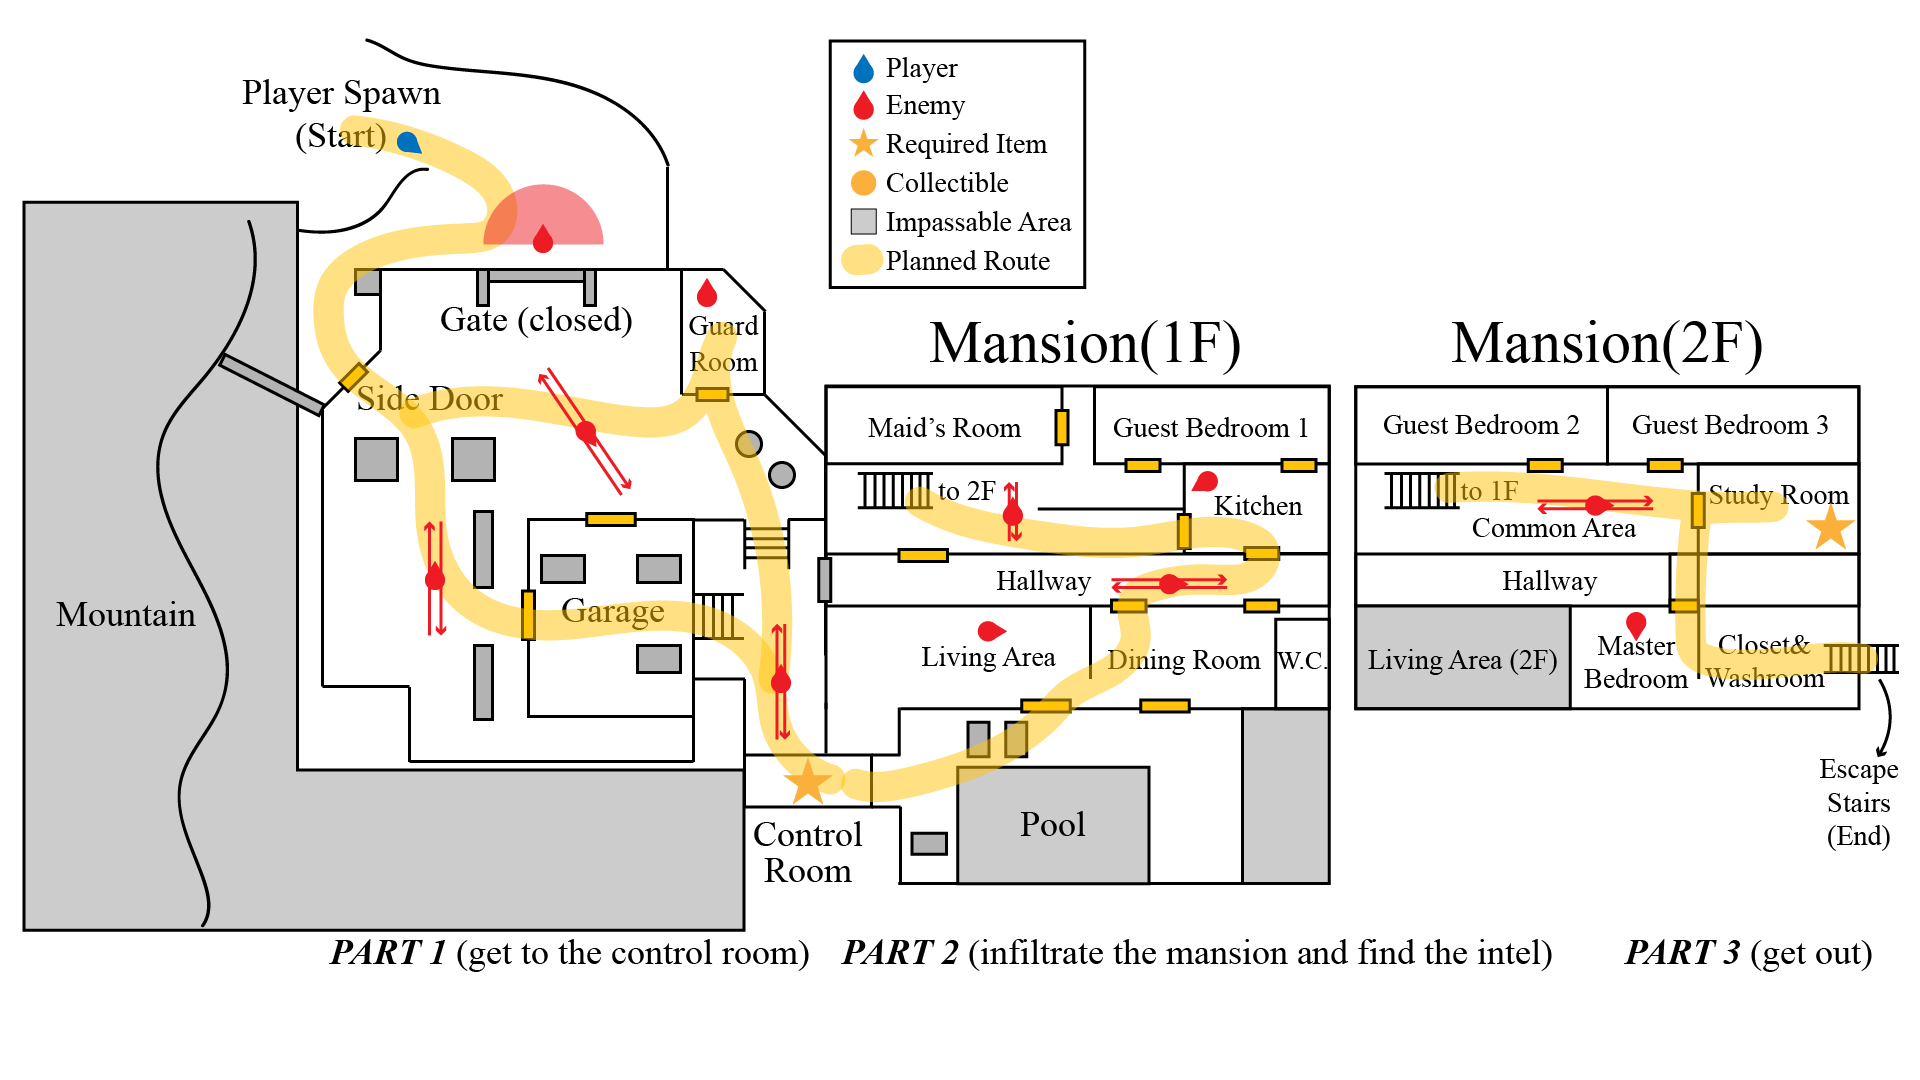
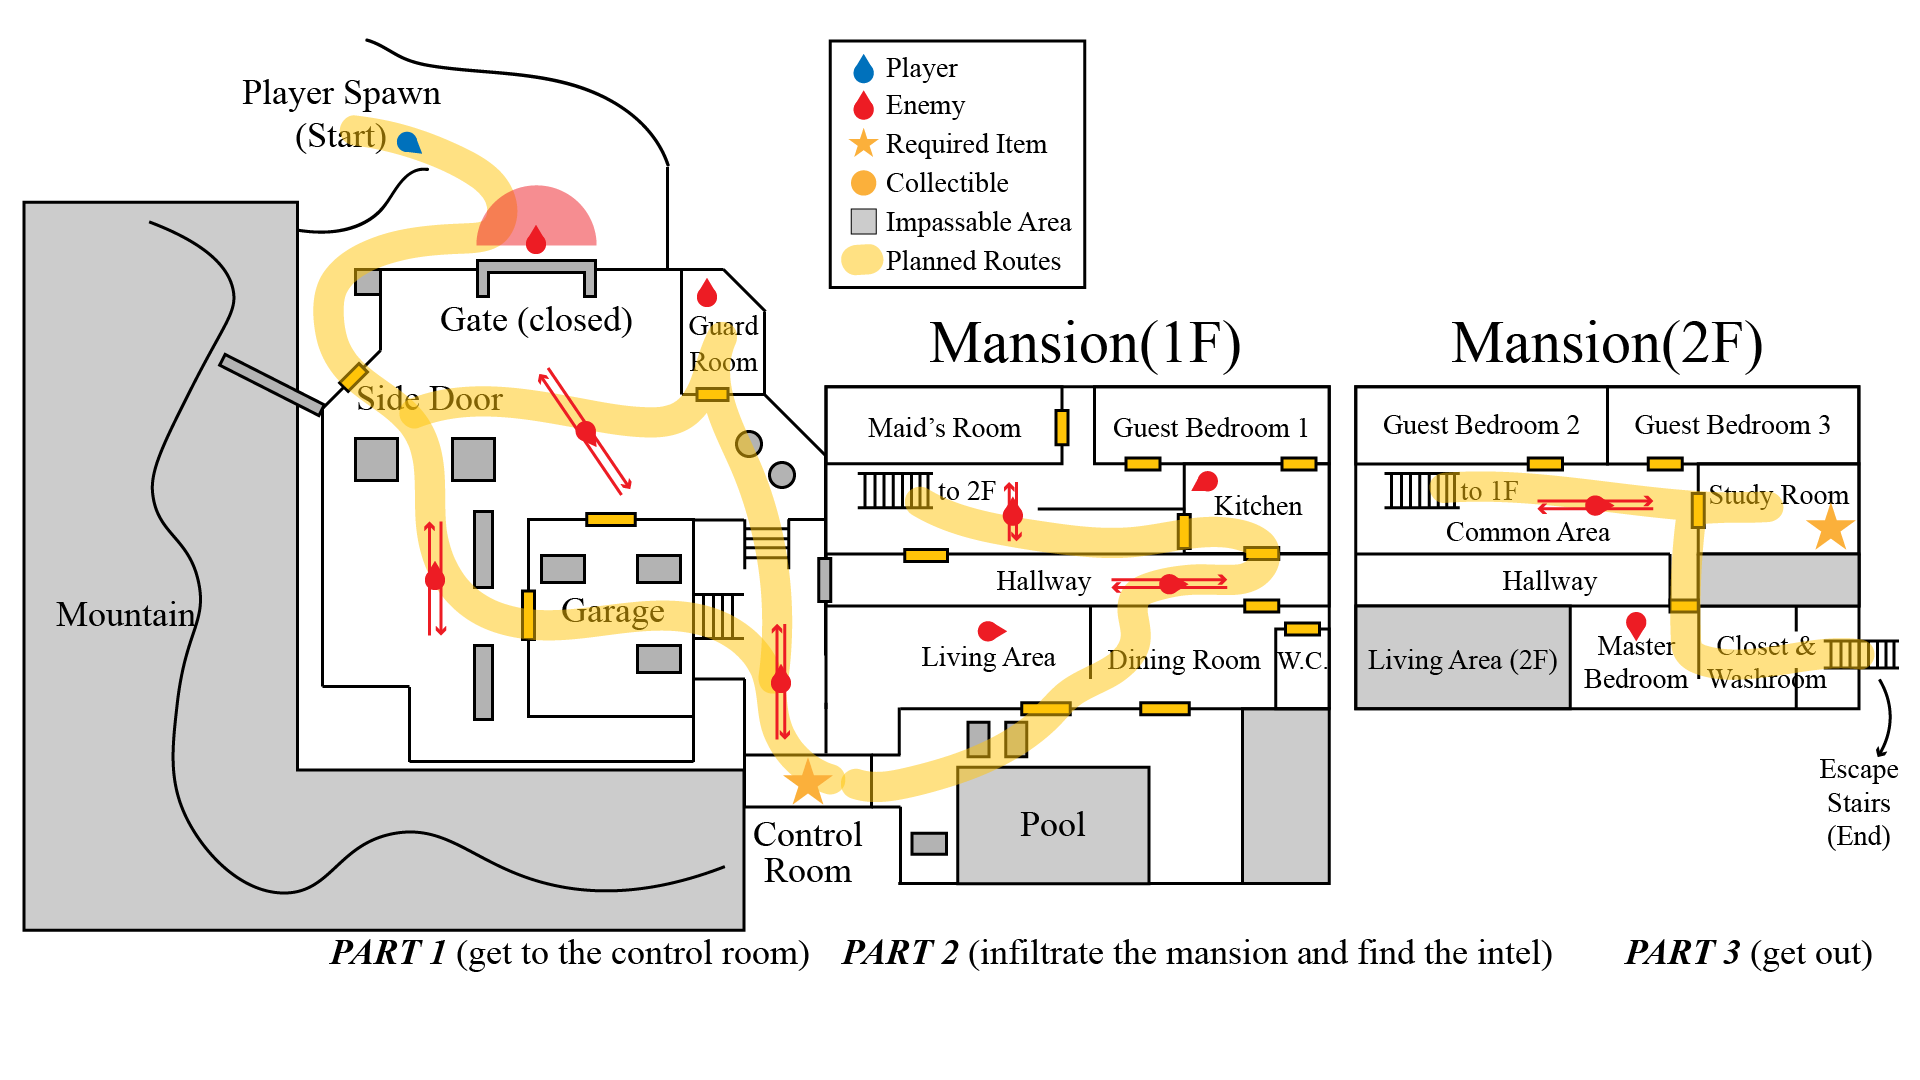
7.29 Minor Update
Content update. New icon.

diff --git a/games/stealth-level.html b/games/stealth-level.html
@@ -32,10 +32,10 @@
         Stealth Level Design
       </div>
       <div class="top-introduction">
-        I chose to build up a stealth level as my first work with Unreal Engine.
-        In this project I tried to answer three core questions: What a stealth
-        level flow should be like? How to use visual elements to guide the
-        player? How to design a level with limited interior space?
+        This stealth level marks as my first work in Unreal Engine. In this
+        project I tried to answer three core questions: What a stealth level
+        flow should be like? How to use visual elements to guide the player? How
+        to design a level with limited interior space?
       </div>
       <div class="top-information">
         <span style="color: var(--ro);">time</span> summer 2020 <br />
@@ -53,9 +53,9 @@
       </div>
       <div class="main-description">
         Stealth game became a serious game genre after Metal Gear Solid came
-        out. Its third person perspective gameplay, combined with dramatic plot
-        and the thrilling feeling taking down enemies, fascinates players who
-        want something different from a shoot-'em-up.
+        out. Its (mostly seen) third person perspective gameplay, combined with
+        dramatic plot and the thrilling feeling taking down enemies, fascinates
+        players who want something different from a shoot-'em-up.
         <br />
       </div>
       <div class="main-design-title">
@@ -63,36 +63,37 @@
         element analysis
       </div>
       <div class="main-design-description">
-        From the experience of several stealth games I want to analyze what
-        makes them fun and try making a brief stealth level by myself. Just like
-        other games, there are some fundamental elements in stealth games: a
-        start, a goal, game rules, and obstacles.
+        I began the project by analyzing the basic chassis of stealth games.
+        Just like other games, some fundamental elements in stealth games should
+        be underlined: a start, a goal, game rules, and obstacles.
         <br /><span class="element-title">start</span><br />
-        In stealth games, usually, the start point is a relatively safe place
-        distant from destination. No challenges at the beginning means players
-        have sufficient time to get prepared such as grabbing some equipments
-        and inspecting the level to make a plan. To make the game more
-        challenging, the players may not be able to come back once they set off,
-        so each run needs to be well prepared. <br />
+        Usually the start point in a stealth level is a relatively safe place
+        distant from destination. Being a safe place means players have
+        sufficient time to get prepared such as grabbing some equipments and
+        inspecting the level for a plan. To make the game more challenging, I
+        used the method of backgating: disallowing players to return to the
+        spawn place once they left. <br />
         <span class="element-title">goal</span><br />
-        The goal in stealth game is very diverse but has something in common:
-        mostly some fixed points (treasure, exit, important person, etc.) Some
-        games would ask the players to escape once they reach the goal (kill a
-        person probably), and the game pace could change a lot in the escape
-        phase, which adds excitement and up & downs to the emotion flow. <br />
+        The goals in stealth game feels very diverse but are mechanically the
+        same: to find some fixed target (treasure, exit, VIP, etc.). Some games
+        would ask the players to escape once they finish the first goal, and the
+        game pace could change a lot in the escape phase, adding excitement and
+        new anxiety to the emotion flow.
+        <br />
         <span class="element-title">rules</span><br />
         The principle of designing rules for stealth games is never to make the
-        playable character too strong that they can even confront a group of
-        armed enemies. Giving ability to engage is dangerous in the sense that a
-        stealth experience may turn into Call of Duty. As a compensation, the
-        character is offered some skills or items so they can pass through
-        enemies unnoticed.<br />
+        playable character too strong that they can confront a group of armed
+        enemies like CoD. As a compensation, the character is offered some
+        skills or items to help cope with enemies unnoticed. The enemy AI, which
+        is another important factor in game difficulty, needs to be at a fair
+        level to make their actions reasonable and acceptable.<br />
         <span class="element-title">obstacles</span><br />
-        There are usually a group of enemies either in fixed points or wandering
-        certain routes, trying to find and catch the playable character. They
-        outnumber the character so it is hard once got into combat, but for a
-        playable level their actions must be predictable so the players can have
-        strategy and plan ahead.
+        There are usually a group of enemies on certain patrol routes, trying to
+        find and catch the player character. They outnumber the character so it
+        is hard once a combat is triggered. For a playable level the enemies'
+        action must be predictable so the players can have a strategy and plan
+        ahead. On the other hand, players need to use the environment to take
+        cover, so many blocking volumes should be in the level too.
       </div>
       <div class="main-design-title">
         <hr />
@@ -134,19 +135,19 @@
         </div>
         Splinter Cell: Blacklist is the stealth game that I'm mostly getting
         inspired from, and this stealth level project is like the re-creation of
-        one of its levels call Private Estate. A scenario set at night, Private
-        Estate serves as a great example of the use of light, enemy AI, and
-        exterior and interior design of a typical stealth level.
+        one of its levels called Private Estate. A scenario set at night,
+        Private Estate serves as a great example of the use of light, enemy AI,
+        and guiding players in a typical stealth level.
         <br />
         <span class="element-title">MGS V: Phantom Pain</span>
         <div class="element-image">
           <img src="/media/games/stealth-level/mgsv.jpg" />
         </div>
         Metal Gear Solid V: Phantom Pain is a critically claimed stealth title
-        from one of my favorite game director, Hideo Kojima. I like its
-        day-night system, which adds different fun and strategy to a single map.
-        Again, MGSV teaches a good lesson on how crucial lighting in dark
-        scenes.
+        from one of my favorite game director, Hideo Kojima. I especially like
+        its day-night system, which adds another layer of fun and strategy to
+        the same map. Again, MGSV teaches a good lesson on how crucial lighting
+        in dark scenes.
         <br />
         <span class="element-title">Uncharted 4</span>
         <div class="element-image">
@@ -158,12 +159,12 @@
         great source for learning. The picture above comes from "get out of the
         orphanage" scenario in chapter 1, which shows the players a segment of
         Nathan Drake's childhood.<br /><br />
-        This level did another point extremely well: make waiting time
-        interesting. Usually in stealth levels players need to wait for enemies
-        to pass or turn around, and the process can be tedious. Uncharted 4,
-        however, makes NPCs talk and act all the time, so that players can
-        concentrate and get information useful to understand the story. It's
-        indeed a clever move.
+        This level did another point extremely well: making wait time
+        interesting. As usually seen in stealth levels, at some points players
+        have to wait till enemies pass by or turn around, and the process can be
+        tedious. Uncharted 4, however, makes NPCs talk and do things all the
+        time, so that players can stay at a high interest level and get useful
+        information to push the story. It's indeed a clever trick.
       </div>
 
       <div class="main-title">
@@ -193,9 +194,10 @@
       </div>
       <div class="main-design-description">
         When designing, I studied pictures of many real world mansions to better
-        understand the layout.
+        understand the mansion layout and design elements. Simply studying the
+        pictures was gratifying.
         <div class="element-image">
-          <img src="/media/games/stealth-level/ref-1.png" />
+          <img src="/media/games/stealth-level/ref.png" />
         </div>
       </div>
       <div class="main-design-title">
@@ -203,12 +205,11 @@
         2d layout
       </div>
       <div class="main-design-description">
-        During design phase I used Adobe Illustrator to block out the level and
-        use some legends for the playable character, enemies and goal. I would
-        like to make 2 major scenes in the game: the outdoor scene and the
-        indoor scene. The first goal is set outside the mansion while the second
-        goal needs the character to sneak into the mansion and stealth in a more
-        constraint area.
+        Prior to grayboxing, I used Adobe Illustrator to lay out the map in 2d.
+        Some of the more important things I wanted to clarify in 2d map are:<br />
+        - determining the critical path;
+        <br />- double-confirming the goal of the level;<br />
+        - assuring that the level is well paced.
         <div class="element-image">
           <img src="/media/games/stealth-level/2d.png" />
         </div>
@@ -264,13 +265,14 @@
         What is interesting is that, when I was blocking out the level and
         testing, I found in real games, each floor in interior levels should
         better be HIGHER than in real life, due to fact that the third-person
-        camera angle is usually higher than the player character. Translucent
-        material is another level component I played with this time. I used it
-        to make the mansion feel modern and living, also to help players see
-        through some part of the mansion and guide them.
-        <br /><span class="element-title">lighting</span><br />
-        Lighting plays an significant role in night scenes. In the level
-        lighting was used mostly to indicate important locations and direct the
+        camera angle is usually higher than the player character.<br /><br />
+        Translucent material is another level component I played with this time.
+        I used it on some windows to artistically make the mansion feel modern
+        and alive, but also to help players see through some part of the mansion
+        and guide them. <br />
+        <span class="element-title">lighting</span><br />
+        Lights plays a significant role in night scenes. In my level lighting
+        was used mostly to indicate important locations and hence direct the
         players. I tried to use different colors for different purposes: yellow
         means common places, white can be seen at the entrance of large area,
         light yellow is used for enemies' flashlights.
@@ -285,11 +287,8 @@
         level construction
       </div>
       <div class="main-design-description">
-        I used Blueprint to do all the game logic, including enemy AI,
-        patrolling system, and game start/over. And it's also a step where I can
-        watch how level runs and adjust accordingly. The best part of all these
-        systems is their compatibility - Unreal Engine makes it easy to
-        transplant the systems to another game that needs them.
+        I used Blueprint to do all game logic, and it's also a point where I can
+        watch how level runs and adjust parameters accordingly.
         <br /><span class="element-title">patrol system</span><br />
         <div class="element-image-flex">
           <img src="/media/games/stealth-level/patrol-1.png" />
@@ -324,12 +323,13 @@
         <div class="element-image">
           <img src="/media/games/stealth-level/iteration-1.png" />
         </div>
-        The first feedback from a professional includes changing the position of
-        vantage point and adding more direction along the level so the player
-        can keep track of where they are and know where is the destination. I
-        also noticed that enemy patrol routes are so easy that there's actually
-        "god path" which is mentioned earlier as a pitfall in stealth level. As
-        a result, I re-designed exterior area and enemy patrol routes.
+        The first feedback from a professional includes making better use of the
+        vantage point and adding more guide along the level so the player can
+        keep track of where they are and where is the destination. I also
+        noticed that enemy patrol routes are so easy that there's actually "god
+        path" which is mentioned earlier as a pitfall in stealth levels. To
+        solve the problem, I re-designed enemies' patrol routes and also created
+        more obstacles.
       </div>
 
       <div class="main-title">
@@ -340,13 +340,19 @@
         what went well
       </div>
       <div class="main-design-description">
-        <span class="element-title">atmosphere</span><br />
+        For the three core questions raised at the beginning of the process, I
+        think I did first two of them well, while still have much to learn.
+        <br /><span class="element-title">level flow</span><br />
+        Rome is not built in a day.
+        <br /><span class="element-title">atmosphere</span><br />
         Almost every playtesters mentioned the intense atmosphere when playing,
         which quite fits my expectation.
         <br /><span class="element-title">using the engine</span><br />
         Prior to the project (which is my first official UE project), I spent
         about two weeks learning some basic stuff about Unreal Engine, all of
-        which eventually proved useful.
+        which eventually proved useful. The best part of all these systems is
+        their compatibility - Unreal Engine makes it easy to transplant the
+        systems to another game that needs them.
       </div>
       <div class="main-design-title">
         <hr />
@@ -358,7 +364,7 @@
         outdoor part. I realized the composition became really different when I
         wanted the guide the players in a narrow area. And setting obstacles was
         also more difficult when designing the inside part.
-        <br /><span class="element-title">missing details</span><br />
+        <br /><span class="element-title">details</span><br />
         Yes, I talked to myself and found that compared to enhancing the
         details, I was more willing to think about the macro - feeling, level
         flow, constructing logic... The level was definitely not perfect as I

diff --git a/analysis/level-analysis.html b/analysis/level-analysis.html
@@ -32,9 +32,7 @@
 
     <div
       class="top"
-      style="
-        background-image: url(/media/analysis/level-analysis/index-title.png);
-      "
+      style="background-image: url(/media/analysis/level-analysis/title.png);"
     >
       <div class="top-title">
         Level Design Analysis
@@ -54,7 +52,7 @@
       <div class="main-description">
         One of the iconic action adventure games exclusively built for
         PlayStation, Uncharted 4 is a great example of using meshes, colors, and
-        lights to weave levels that are strong in telling a story.
+        lights to weave levels that are strong in telling story.
       </div>
       <div class="main-design-title">
         <hr />
@@ -104,20 +102,20 @@
           <img src="/media/analysis/bloodborne/shortcut-1.PNG" />
           <img src="/media/analysis/bloodborne/shortcut-2.PNG" />
         </div>
-        <div class="main-title">
-          Crysis 3
-        </div>
-        <div class="main-description">
-          One of the most visual stunning games of that time, the
-          half-open-world Crysis 3 explores the level design further than its
-          predecessor Crysis 2.
-        </div>
-        <div class="main-design-title">
-          <hr />
-          level design
-        </div>
-        <div class="main-design-description"></div>
       </div>
+      <div class="main-title">
+        Crysis 3
+      </div>
+      <div class="main-description">
+        One of the most visual stunning games of that time, the half-open-world
+        Crysis 3 explores the level design further than its predecessor Crysis
+        2.
+      </div>
+      <div class="main-design-title">
+        <hr />
+        level design
+      </div>
+      <div class="main-design-description"></div>
 
       <div style="clear: both;"></div>
     </div>

diff --git a/js/nav.js b/js/nav.js
@@ -48,7 +48,7 @@ var tmpl = CommentDoc(function () {
         <a
           class='entry'
           onclick="transitionToPage('../games/collection','var(--rurikon)')">
-          Collection
+          Mini Game Collection
         </a>
       </div>
       <div class='category'>
@@ -61,7 +61,7 @@ var tmpl = CommentDoc(function () {
         <br />
         <a
           class='entry'
-          onclick="transitionToPage('../analysis/bloodborne','var(--sohi)')">
+          onclick="transitionToPage('../analysis/level-analysis','var(--sohi)')">
           Level Analysis
         </a>
         <br />

diff --git a/blog/design-diary.html b/blog/design-diary.html
@@ -101,7 +101,7 @@
         logical and meaningful. Games, as other forms of art do, shares the same
         principle for writing a story.<br />
         For me the most important thing of a good story is
-        <span class="bold">conflict.</span> It is two opposing forces collider
+        <span class="bold">conflict.</span> It is two opposing forces colliding
         with one another. Conflict could make the dramatic moment really strong
         and keep the game at a high level of tension.<br />
         Games have naturally multiple ways to tell stories: visual, sound,

diff --git a/games/collection.html b/games/collection.html
@@ -34,7 +34,7 @@
       style="background-image: url(/media/games/collection/title.png);"
     >
       <div class="top-title" style="font-size: 5em;">
-        Game Collection
+        Mini Game Collection
       </div>
       <div class="top-introduction">
         Game Collection is the showcase of some of the highly experimental or

diff --git a/css/game.css b/css/game.css
@@ -27,7 +27,7 @@ body.fade-out {
 
 .main-image {
   width: 100vw;
-  margin-left: -10vw;
+  margin-left: -8vw;
 }
 
 .main-image img {
